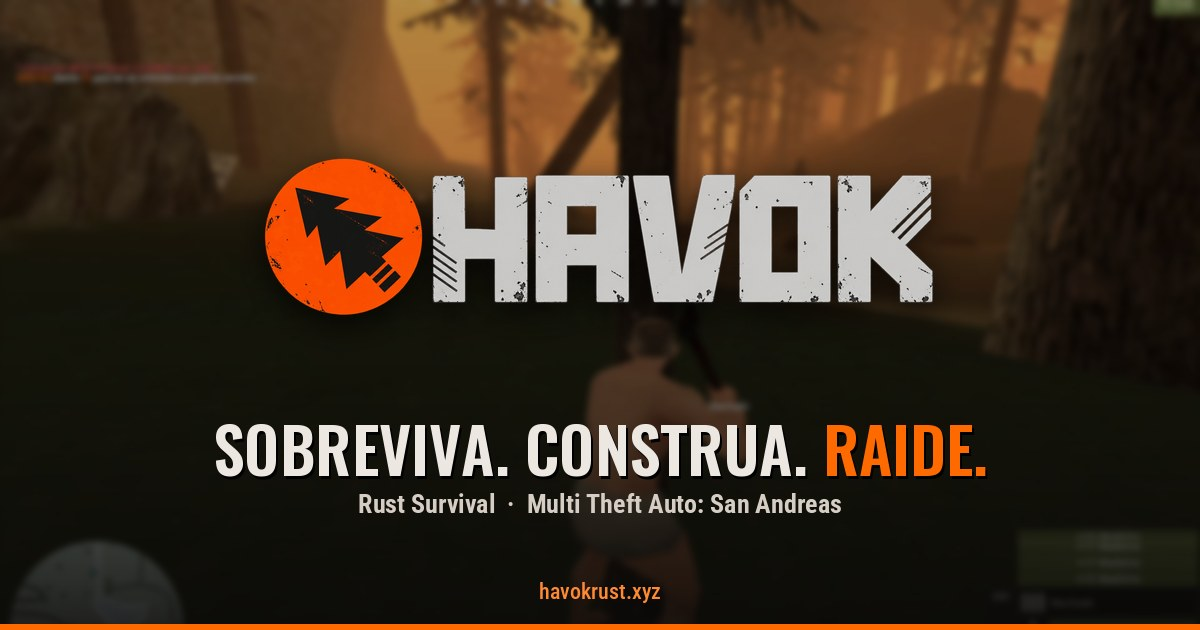
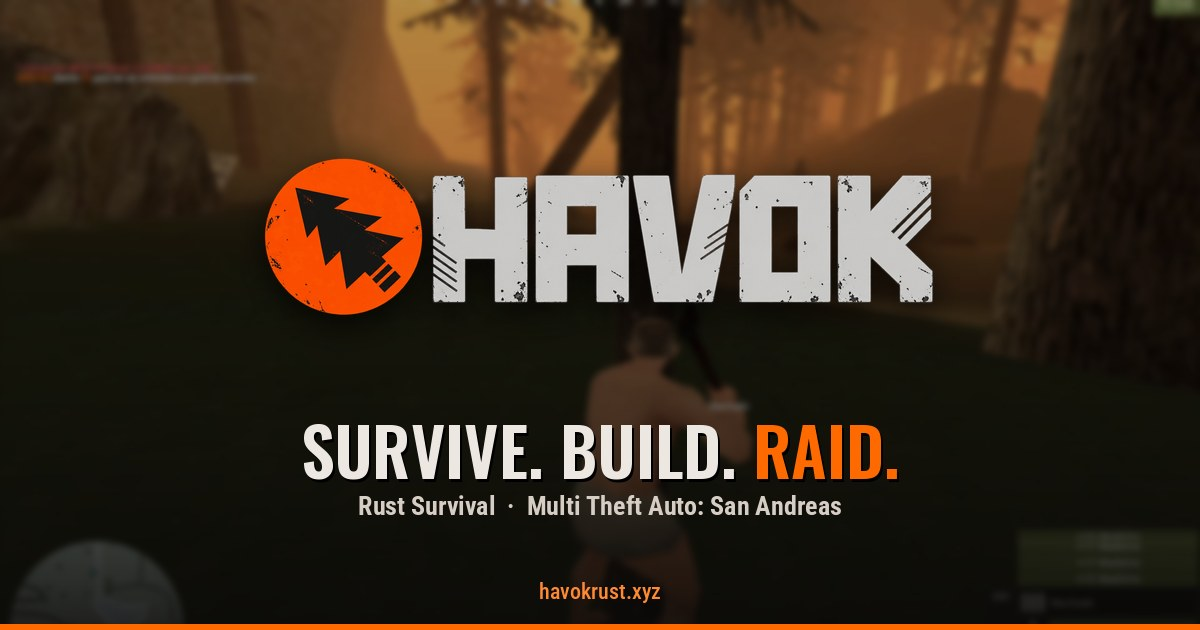
Link preview in English

Changed region(s): [[0.1542, 0.6635, 0.8325, 0.8143]]

diff --git a/index.html b/index.html
@@ -4,9 +4,9 @@
   <meta charset="UTF-8">
   <meta name="viewport" content="width=device-width, initial-scale=1.0">
   <meta name="theme-color" content="#ff6a00">
-  <title>HAVOK — Rust Survival no MTA:SA</title>
-  <meta name="description" content="Servidor de sobrevivência estilo Rust no MTA: San Andreas. Acorde sem nada, farme, crafte, construa sua base, monte seu grupo e raide. Wiki completa, guias e loja VIP.">
-  <meta name="keywords" content="HAVOK, MTA, MTA:SA, Multi Theft Auto, Rust, survival, servidor, raid, base, crafting, GTA San Andreas">
+  <title>HAVOK — Rust Survival on MTA:SA</title>
+  <meta name="description" content="A Rust-style survival server on MTA: San Andreas. Wake up with nothing, farm, craft, build your base, team up and raid. Full wiki, guides and VIP store.">
+  <meta name="keywords" content="HAVOK, MTA, MTA:SA, Multi Theft Auto, Rust, survival, server, raid, base building, crafting, GTA San Andreas">
   <meta name="author" content="HAVOK">
   <meta name="robots" content="index, follow">
   <link rel="canonical" href="https://havokrust.xyz/">
@@ -16,24 +16,24 @@
   <!-- Open Graph (Discord, WhatsApp, Facebook, LinkedIn) -->
   <meta property="og:type" content="website">
   <meta property="og:site_name" content="HAVOK — Rust Survival">
-  <meta property="og:title" content="HAVOK — Sobreviva. Construa. Raide.">
-  <meta property="og:description" content="Sobrevivência estilo Rust no MTA: San Andreas. Farme, crafte, construa sua base e raide. Wiki completa, guias e grupos com ranking.">
+  <meta property="og:title" content="HAVOK — Survive. Build. Raid.">
+  <meta property="og:description" content="Rust-style survival on MTA: San Andreas. Farm, craft, build your base and raid. Full wiki, guides and ranked groups.">
   <meta property="og:url" content="https://havokrust.xyz/">
-  <meta property="og:image" content="https://havokrust.xyz/og.jpg">
-  <meta property="og:image:secure_url" content="https://havokrust.xyz/og.jpg">
+  <meta property="og:image" content="https://havokrust.xyz/og.jpg?v=2">
+  <meta property="og:image:secure_url" content="https://havokrust.xyz/og.jpg?v=2">
   <meta property="og:image:type" content="image/jpeg">
   <meta property="og:image:width" content="1200">
   <meta property="og:image:height" content="630">
-  <meta property="og:image:alt" content="Logo do HAVOK sobre uma floresta ao pôr do sol, com o texto Sobreviva. Construa. Raide.">
-  <meta property="og:locale" content="pt_BR">
-  <meta property="og:locale:alternate" content="en_US">
+  <meta property="og:image:alt" content="HAVOK logo over a forest at sunset with the words Survive. Build. Raid.">
+  <meta property="og:locale" content="en_US">
+  <meta property="og:locale:alternate" content="pt_BR">
 
   <!-- X / Twitter -->
   <meta name="twitter:card" content="summary_large_image">
-  <meta name="twitter:title" content="HAVOK — Sobreviva. Construa. Raide.">
-  <meta name="twitter:description" content="Sobrevivência estilo Rust no MTA: San Andreas. Farme, crafte, construa sua base e raide.">
-  <meta name="twitter:image" content="https://havokrust.xyz/og.jpg">
-  <meta name="twitter:image:alt" content="Logo do HAVOK sobre uma floresta ao pôr do sol">
+  <meta name="twitter:title" content="HAVOK — Survive. Build. Raid.">
+  <meta name="twitter:description" content="Rust-style survival on MTA: San Andreas. Farm, craft, build your base and raid.">
+  <meta name="twitter:image" content="https://havokrust.xyz/og.jpg?v=2">
+  <meta name="twitter:image:alt" content="HAVOK logo over a forest at sunset">
 
   <!-- dados para o Google -->
   <script type="application/ld+json">
@@ -42,12 +42,12 @@
     "@type": "VideoGame",
     "name": "HAVOK — Rust Survival",
     "url": "https://havokrust.xyz/",
-    "image": "https://havokrust.xyz/og.jpg",
-    "description": "Servidor de sobrevivência estilo Rust no Multi Theft Auto: San Andreas.",
+    "image": "https://havokrust.xyz/og.jpg?v=2",
+    "description": "A Rust-style survival server on Multi Theft Auto: San Andreas.",
     "genre": ["Survival", "Sandbox", "Multiplayer"],
     "gamePlatform": "PC",
     "playMode": "MultiPlayer",
-    "inLanguage": ["pt-BR", "en"],
+    "inLanguage": ["en", "pt-BR"],
     "sameAs": ["https://www.youtube.com/@havokrust"]
   }
   </script>

diff --git a/play/index.html b/play/index.html
@@ -5,22 +5,22 @@
   <meta name="viewport" content="width=device-width, initial-scale=1.0">
   <meta name="theme-color" content="#ff6a00">
   <title>Play HAVOK</title>
-  <meta name="description" content="Entre no servidor HAVOK — Rust Survival no MTA: San Andreas.">
+  <meta name="description" content="Join the HAVOK server — Rust Survival on MTA: San Andreas.">
   <link rel="canonical" href="https://havokrust.xyz/play/">
   <link rel="apple-touch-icon" href="../apple-touch-icon.png">
   <meta property="og:type" content="website">
   <meta property="og:site_name" content="HAVOK — Rust Survival">
-  <meta property="og:title" content="Jogar HAVOK — entre no servidor">
-  <meta property="og:description" content="Um clique para abrir o MTA direto no servidor HAVOK. Primeira vez? O passo a passo está aqui.">
+  <meta property="og:title" content="Play HAVOK — join the server">
+  <meta property="og:description" content="One click opens MTA straight into the HAVOK server. First time? The step-by-step is here.">
   <meta property="og:url" content="https://havokrust.xyz/play/">
-  <meta property="og:image" content="https://havokrust.xyz/og.jpg">
+  <meta property="og:image" content="https://havokrust.xyz/og.jpg?v=2">
   <meta property="og:image:width" content="1200">
   <meta property="og:image:height" content="630">
-  <meta property="og:image:alt" content="Logo do HAVOK sobre uma floresta ao pôr do sol">
-  <meta property="og:locale" content="pt_BR">
+  <meta property="og:image:alt" content="HAVOK logo over a forest at sunset">
+  <meta property="og:locale" content="en_US">
   <meta name="twitter:card" content="summary_large_image">
-  <meta name="twitter:title" content="Jogar HAVOK — entre no servidor">
-  <meta name="twitter:image" content="https://havokrust.xyz/og.jpg">
+  <meta name="twitter:title" content="Play HAVOK — join the server">
+  <meta name="twitter:image" content="https://havokrust.xyz/og.jpg?v=2">
   <link rel="icon" href="../favicon.png">
   <link rel="preconnect" href="https://fonts.googleapis.com">
   <link rel="preconnect" href="https://fonts.gstatic.com" crossorigin>
